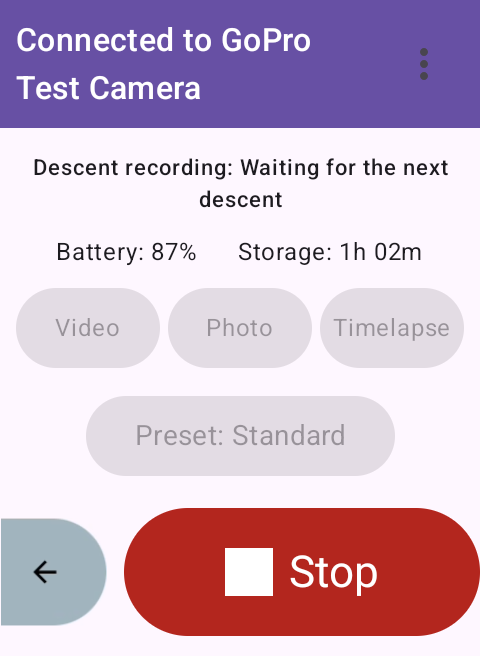
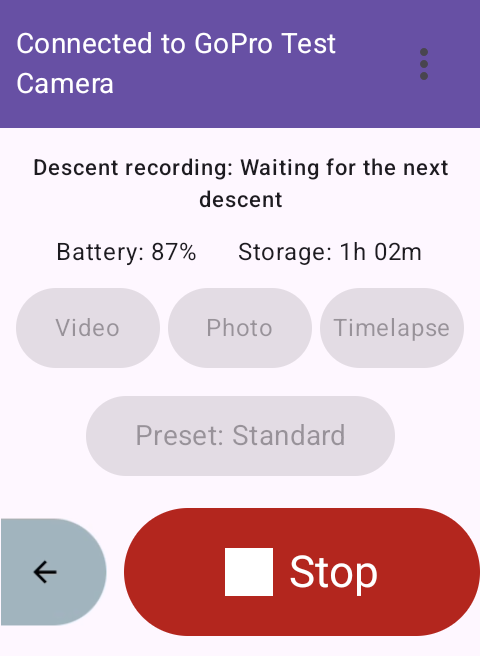
fix: make the camera screen title smaller

Changed region(s): [[0.0312, 0.0305, 0.7188, 0.1524]]

diff --git a/app/src/androidTest/kotlin/com/karoocameracontrol/DescentUiInstrumentation.kt b/app/src/androidTest/kotlin/com/karoocameracontrol/DescentUiInstrumentation.kt
@@ -77,7 +77,7 @@ class DescentUiInstrumentation : Instrumentation() {
                             topBar = {
                                 CenterAlignedTopAppBar(
                                     title = {
-                                        Text("Connected to GoPro Test Camera", style = MaterialTheme.typography.titleMedium, maxLines = 2, overflow = TextOverflow.Ellipsis)
+                                        Text("Connected to GoPro Test Camera", style = MaterialTheme.typography.bodyMedium, maxLines = 2, overflow = TextOverflow.Ellipsis)
                                     },
                                     actions = {
                                         IconButton(onClick = {}) { Icon(Icons.Default.MoreVert, contentDescription = "More options") }

diff --git a/app/src/main/kotlin/com/karoocameracontrol/screens/MainScreen.kt b/app/src/main/kotlin/com/karoocameracontrol/screens/MainScreen.kt
@@ -104,7 +104,7 @@ fun MainScreen(
                             } else {
                                 "Karoo Camera Control"
                             },
-                        style = MaterialTheme.typography.titleMedium,
+                        style = MaterialTheme.typography.bodyMedium,
                         maxLines = 2,
                         overflow = TextOverflow.Ellipsis,
                     )

diff --git a/docs/recording-controls.md b/docs/recording-controls.md
@@ -18,8 +18,8 @@ share a fixed bottom row on the Karoo screen, with the recording timer above.
 Other camera details scroll when needed, with a gap above the fixed controls.
 Battery and storage share a compact row so the mode and preset controls fit
 more comfortably. Tap the preset button, labelled with the current preset, to
-choose another preset. The app header allows two lines for the camera name and
-ellipsizes longer names instead of clipping them. A manual Stop suppresses
+choose another preset. The app header uses smaller, 14 sp text, allows two lines for the camera name,
+and ellipsizes longer names instead of clipping them. A manual Stop suppresses
 automatic starts until the next descent.
 
 If the shutter response or recording-state confirmation times out, the shared
